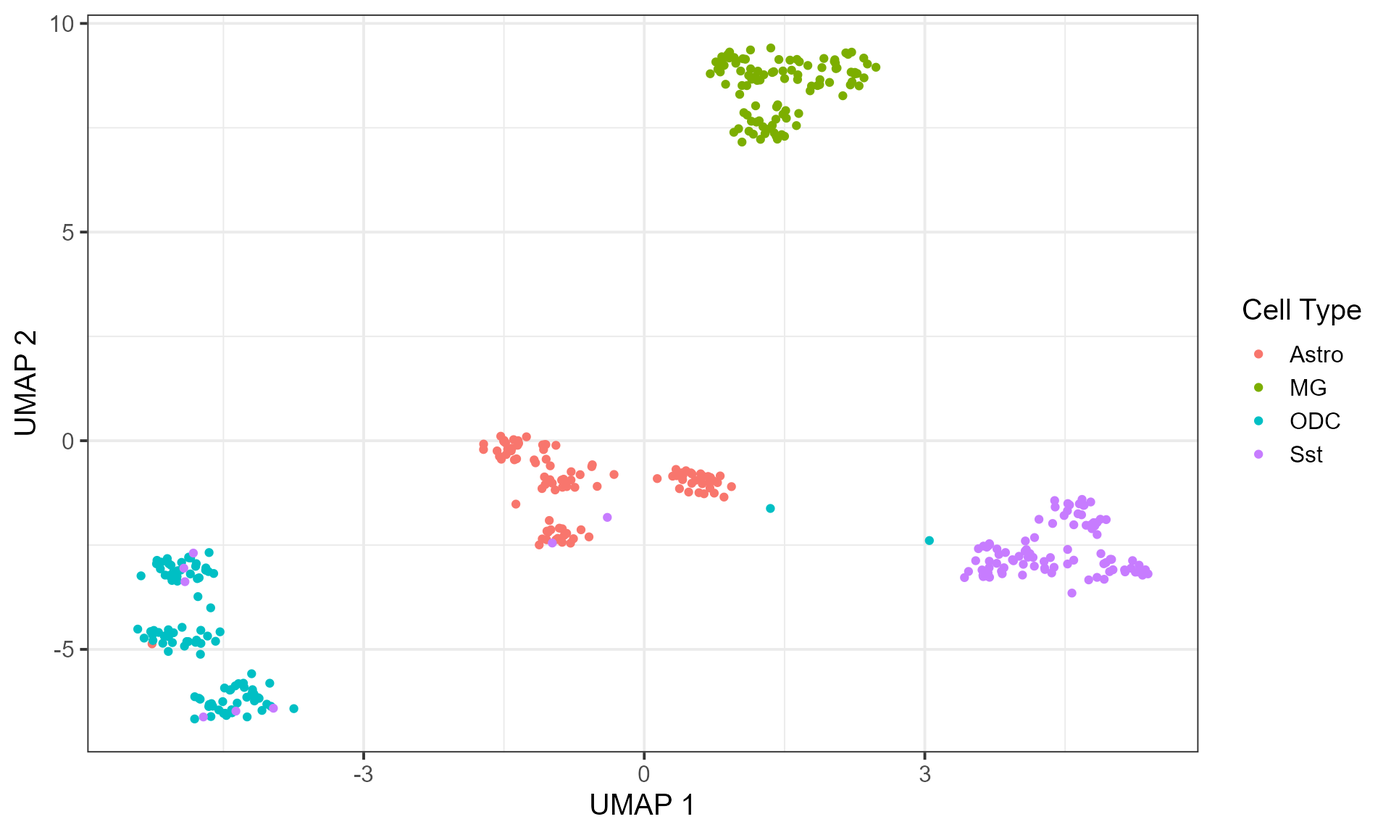
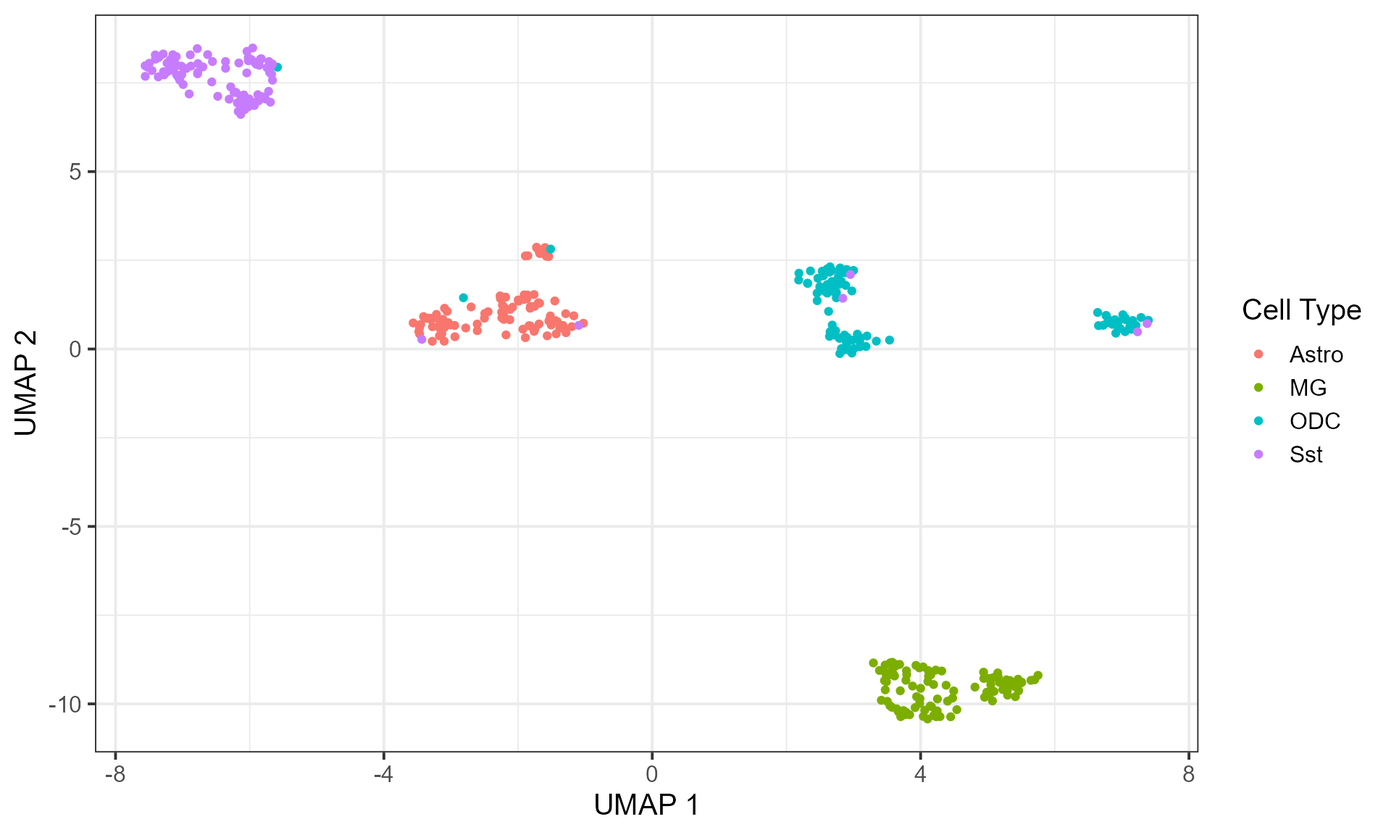
Add files via upload

diff --git a/docs/articles/BandNorm-tutorial.html b/docs/articles/BandNorm-tutorial.html
@@ -111,7 +111,7 @@
 <span class="fu">devtools</span><span class="fu">::</span><span class="fu"><a href="https://devtools.r-lib.org//reference/remote-reexports.html">install_github</a></span><span class="op">(</span><span class="st">"immunogenomics/harmony"</span><span class="op">)</span></code></pre></div>
 <p>BandNorm can be installed from Github:</p>
 <div class="sourceCode" id="cb2"><pre class="downlit sourceCode r">
-<code class="sourceCode R"><span class="fu">devtools</span><span class="fu">::</span><span class="fu"><a href="https://devtools.r-lib.org//reference/remote-reexports.html">install_github</a></span><span class="op">(</span><span class="st">'sshen82/BandNorm'</span>, build_vignettes <span class="op">=</span> <span class="cn">TRUE</span><span class="op">)</span></code></pre></div>
+<code class="sourceCode R"><span class="fu">devtools</span><span class="fu">::</span><span class="fu"><a href="https://devtools.r-lib.org//reference/remote-reexports.html">install_github</a></span><span class="op">(</span><span class="st">'sshen82/BandNorm'</span>, build_vignettes <span class="op">=</span> <span class="cn">FALSE</span><span class="op">)</span></code></pre></div>
 <p>Also, if the user doesn’t have default R path writing permission, it is possible to install the package to the personal library:</p>
 <div class="sourceCode" id="cb3"><pre class="downlit sourceCode r">
 <code class="sourceCode R"><span class="fu">withr</span><span class="fu">::</span><span class="fu"><a href="https://withr.r-lib.org/reference/with_libpaths.html">with_libpaths</a></span><span class="op">(</span><span class="st">"personalLibraryPath"</span>, <span class="fu">devtools</span><span class="fu">::</span><span class="fu"><a href="https://devtools.r-lib.org//reference/remote-reexports.html">install_github</a></span><span class="op">(</span><span class="st">"sshen82/BandNorm"</span><span class="op">)</span><span class="op">)</span></code></pre></div>
@@ -276,107 +276,106 @@ chr1    2000000 chr1    4000000 2</code></pre>
 <span class="co">#&gt; Harmony 8/10</span>
 <span class="co">#&gt; Harmony 9/10</span>
 <span class="co">#&gt; Harmony 10/10</span>
-<span class="co">#&gt; Harmony converged after 10 iterations</span>
 <span class="va">embedding</span><span class="op">[</span><span class="fl">1</span><span class="op">:</span><span class="fl">10</span>, <span class="op">]</span>
-<span class="co">#&gt;                 PC1       PC2        PC3       PC4        PC5         PC6</span>
-<span class="co">#&gt; Astro_1  -18.598110 29.931080 -24.382399 31.116336 -40.118579 -21.7019210</span>
-<span class="co">#&gt; Astro_2  -13.670918 36.083452  -3.312267  6.930737  -9.009162   6.3464861</span>
-<span class="co">#&gt; Astro_3   -2.267128  4.597544   2.897464  3.377565  12.693628 -15.4582799</span>
-<span class="co">#&gt; Astro_4   -7.187638 28.130342 -25.996973  9.657781 -12.472984 -14.0028934</span>
-<span class="co">#&gt; Astro_5    1.628802  8.360079 -23.223005 13.253111 -24.817775 -26.7349927</span>
-<span class="co">#&gt; Astro_6  -20.061033 14.267743 -20.536668  1.234884  -4.438121   7.3750693</span>
-<span class="co">#&gt; Astro_7  -26.900891 23.071582  -8.286288  2.590130  -2.842186   0.2114248</span>
-<span class="co">#&gt; Astro_8   -1.107634 43.001823  -4.118322 -2.020583  -2.913827  14.4833077</span>
-<span class="co">#&gt; Astro_9  -10.996912 12.592310 -26.308491  7.604737 -12.041808   1.4774103</span>
-<span class="co">#&gt; Astro_10 -15.471287  4.827477 -13.715952  5.268014 -25.010593 -10.1452987</span>
-<span class="co">#&gt;                 PC7        PC8        PC9        PC10      PC11       PC12</span>
-<span class="co">#&gt; Astro_1    4.460227 -52.100513 40.2474960  -6.5515215 37.317000 -27.162293</span>
-<span class="co">#&gt; Astro_2   -7.407541  -8.174406  7.0753176  12.1423323 11.933554 -18.978569</span>
-<span class="co">#&gt; Astro_3  -15.356983  20.370090  2.8735243   5.2442983 13.856275  -8.737645</span>
-<span class="co">#&gt; Astro_4   10.894640   4.463943  2.8272319 -13.7644010  2.907668 -17.859815</span>
-<span class="co">#&gt; Astro_5    2.952286  -1.792666 39.5549378  14.3352078 84.920551 -32.838864</span>
-<span class="co">#&gt; Astro_6   -8.898990  -4.130747  1.3905495   0.8574634  8.598461 -44.111732</span>
-<span class="co">#&gt; Astro_7   -1.840967   2.606614 -6.5318506  -9.3327071 -2.039107 -10.357310</span>
-<span class="co">#&gt; Astro_8  -17.574318  11.489550 -0.2931915   0.5600867 24.944239   1.166866</span>
-<span class="co">#&gt; Astro_9   16.646614  34.493576 42.5938448  10.7620046 36.837644 -69.246289</span>
-<span class="co">#&gt; Astro_10  14.756432  -3.866637 32.3606157 -17.1826607 14.062444 -30.227001</span>
-<span class="co">#&gt;                PC13        PC14       PC15        PC16        PC17       PC18</span>
-<span class="co">#&gt; Astro_1   35.475167 -17.8441865  31.093670 -14.5614458  46.8598862 -49.489388</span>
-<span class="co">#&gt; Astro_2    3.732014   0.5568262  -6.336249   0.8622607 -10.2712421 -15.806322</span>
-<span class="co">#&gt; Astro_3   10.502538   9.1290884   5.634217  15.2370060   6.6189743  -3.797738</span>
-<span class="co">#&gt; Astro_4  -11.257326   9.9240360 -15.740841  -2.8328200  -5.5238469   3.630193</span>
-<span class="co">#&gt; Astro_5   30.232807  47.9757347   8.794098  17.5248834   1.3960024  15.270531</span>
-<span class="co">#&gt; Astro_6   26.243766   0.3979917   6.999083 -15.5129058  -0.1274073 -11.690016</span>
-<span class="co">#&gt; Astro_7   13.108140   0.4956446  -7.808197   3.9769618   5.7202350 -20.204446</span>
-<span class="co">#&gt; Astro_8   -4.015004 -43.1880686  -5.824666 -21.9046330  -8.0297394  -3.715574</span>
-<span class="co">#&gt; Astro_9  -28.286495 -25.0738512  35.459946  38.5349062 -11.7070867 -49.076144</span>
-<span class="co">#&gt; Astro_10  16.175552 -23.1416778  -9.513600   1.7511113  18.4756010 -24.237886</span>
-<span class="co">#&gt;                 PC19       PC20        PC21       PC22       PC23       PC24</span>
-<span class="co">#&gt; Astro_1   39.4165478  24.680260 -158.567288  61.766255  17.998826 -43.281226</span>
-<span class="co">#&gt; Astro_2    0.9824895   3.274970  -10.570522  -6.868671 -23.768942  30.192397</span>
-<span class="co">#&gt; Astro_3   28.0204018   6.850144   13.156922  -3.509714  -5.139016   2.895744</span>
-<span class="co">#&gt; Astro_4  -16.0350655   8.270592   27.079930 -20.272976 -22.422512  -7.440697</span>
-<span class="co">#&gt; Astro_5  118.7523443  30.320110   80.174146  12.452443 126.448437 -88.869054</span>
-<span class="co">#&gt; Astro_6  -17.3645302  -1.256421    4.016735  47.114303  -1.410502   6.991088</span>
-<span class="co">#&gt; Astro_7  -14.8838890 -10.230062   15.273690   3.798401 -25.429257   3.683419</span>
-<span class="co">#&gt; Astro_8   -2.7854051 -17.413308  -37.636104 -23.203178 -29.014660  33.578798</span>
-<span class="co">#&gt; Astro_9  -86.8926044 -48.965071    1.486148 -58.063612  48.838538  18.450623</span>
-<span class="co">#&gt; Astro_10  -1.8175842  -5.881182   -1.216682 -22.072054   1.690142  -1.315146</span>
-<span class="co">#&gt;                PC25        PC26       PC27        PC28       PC29       PC30</span>
-<span class="co">#&gt; Astro_1   13.275856  -75.573154  13.570530 -140.979724   5.727072 -33.404555</span>
-<span class="co">#&gt; Astro_2  -13.810191   21.399419   3.177459  -12.656734   2.592716  15.532955</span>
-<span class="co">#&gt; Astro_3    3.443207   24.605286 -33.378943   26.871663  30.746832  12.667440</span>
-<span class="co">#&gt; Astro_4   -3.009014   18.087493  20.170282   31.347615   2.768800  -5.696529</span>
-<span class="co">#&gt; Astro_5   40.311243   65.800138 -57.668802   64.648362 -52.043389  13.761692</span>
-<span class="co">#&gt; Astro_6    5.102028   -2.080999  37.222388   -7.593822  21.344240   1.416606</span>
-<span class="co">#&gt; Astro_7   29.780438   18.722245  22.822204   25.700187  13.581398 -18.215850</span>
-<span class="co">#&gt; Astro_8   11.442772   -3.138051 -31.041168   22.986442  16.198882 -40.829396</span>
-<span class="co">#&gt; Astro_9    8.753905 -172.107216  -7.446399   69.200780  -9.240530  -7.393721</span>
-<span class="co">#&gt; Astro_10 -42.034477   -3.314376  23.923047    5.525915  10.524619  -1.069653</span>
-<span class="co">#&gt;                PC31       PC32        PC33       PC34      PC35       PC36</span>
-<span class="co">#&gt; Astro_1   13.580232 -69.607471  16.6579039 -26.495668  65.49716 -78.252944</span>
-<span class="co">#&gt; Astro_2   -6.525119   3.483396   8.1538417  19.066489 -10.20887   7.762151</span>
-<span class="co">#&gt; Astro_3    5.810426  -9.658983 -76.1098192  -2.781780  -4.87731  -3.005881</span>
-<span class="co">#&gt; Astro_4  -28.487199  23.962197  -5.9613303  17.252775  15.17926  18.719909</span>
-<span class="co">#&gt; Astro_5  -11.679693  -4.382173  -4.0230368 -47.109811  67.49965  25.917323</span>
-<span class="co">#&gt; Astro_6   -4.221079  41.352804  14.1815273  -7.919299  13.86098   3.646989</span>
-<span class="co">#&gt; Astro_7  -38.228441  10.121056 -31.3917566   5.180027 -64.89057   1.322206</span>
-<span class="co">#&gt; Astro_8   12.758204  14.914500  44.5473871 -25.783057  54.17184  33.915650</span>
-<span class="co">#&gt; Astro_9   62.347971 -21.511858  -0.2814753 -13.167109 -60.75524 -16.874267</span>
-<span class="co">#&gt; Astro_10 -40.601569  39.919305 -28.9582106  20.420831   5.33959   7.718047</span>
+<span class="co">#&gt;                  PC1       PC2        PC3       PC4        PC5        PC6</span>
+<span class="co">#&gt; Astro_1  -19.6818675 33.187558 -24.291312 34.305986 -37.328502 -17.326726</span>
+<span class="co">#&gt; Astro_2   -6.9413515 35.764457  -0.881772 13.842615  -8.433046  11.788085</span>
+<span class="co">#&gt; Astro_3   -0.1522657 11.731713  -1.567521  2.776508  11.146740 -12.273138</span>
+<span class="co">#&gt; Astro_4  -11.4269339 24.421817 -24.699096 12.630375 -11.461560 -19.269284</span>
+<span class="co">#&gt; Astro_5   10.9686354 14.232116 -23.579580 10.386387 -23.045573 -14.536422</span>
+<span class="co">#&gt; Astro_6  -23.1276963 13.196159 -19.509804 -0.738982  -3.575348  11.037074</span>
+<span class="co">#&gt; Astro_7  -24.3950214 21.607768 -13.830574  8.450608  -2.419186  -2.942963</span>
+<span class="co">#&gt; Astro_8  -12.8734154 36.446388  -5.606941  7.560606  -1.447784   4.944132</span>
+<span class="co">#&gt; Astro_9  -12.6697465  9.948373 -22.331075 17.613220 -10.338764  -4.950630</span>
+<span class="co">#&gt; Astro_10 -18.4595052  3.857227 -12.850553  3.136981 -24.144070  -6.476602</span>
+<span class="co">#&gt;                 PC7        PC8        PC9       PC10       PC11       PC12</span>
+<span class="co">#&gt; Astro_1   -3.174965 -45.142899 38.1858949  -1.310533 17.4545481 -23.973717</span>
+<span class="co">#&gt; Astro_2   -3.114486  -1.966325 12.0148420  16.080430 19.4947920 -30.928776</span>
+<span class="co">#&gt; Astro_3  -20.962141  26.375546  1.0220099  10.104739 -4.4285838  -6.151360</span>
+<span class="co">#&gt; Astro_4    9.714641   3.194137  4.7535728 -10.556344  2.6782999 -15.394851</span>
+<span class="co">#&gt; Astro_5    2.106940  12.486421 41.3317700  22.283793 81.0174869 -42.992193</span>
+<span class="co">#&gt; Astro_6  -11.478945  -3.656145  0.9432855   4.087796  8.9836023 -45.498311</span>
+<span class="co">#&gt; Astro_7    1.283122   2.550774 -3.0860071  -9.269331  0.8813164 -16.760036</span>
+<span class="co">#&gt; Astro_8  -21.742754   7.500742  0.1119756   1.091117 18.5508798   9.283238</span>
+<span class="co">#&gt; Astro_9   17.701556  29.060677 50.0758019  12.301419 41.6392893 -68.062144</span>
+<span class="co">#&gt; Astro_10  12.153053  -3.311661 31.9030157 -13.937689 14.3380999 -31.615839</span>
+<span class="co">#&gt;                 PC13       PC14       PC15        PC16        PC17       PC18</span>
+<span class="co">#&gt; Astro_1   41.9913391 -40.315977  12.005285 -34.2698820  62.3687102 -48.712968</span>
+<span class="co">#&gt; Astro_2    0.4929860  -4.876995 -15.080028   1.4619842 -15.7442708 -14.193378</span>
+<span class="co">#&gt; Astro_3   17.8029350 -13.042382 -13.040820  -2.6092264  20.2778343  -2.682610</span>
+<span class="co">#&gt; Astro_4   -6.2407974   7.291412 -16.712736  -3.0916003  -0.1070502   1.580848</span>
+<span class="co">#&gt; Astro_5   25.7541686  32.271291 -10.616557   9.3623690   0.6137995  17.118863</span>
+<span class="co">#&gt; Astro_6   27.7983094  -0.392700   7.627107 -16.3108803   0.9139409 -12.429116</span>
+<span class="co">#&gt; Astro_7   17.7175670  -8.857574 -13.545722  -0.1547511  10.1359683 -19.565539</span>
+<span class="co">#&gt; Astro_8    0.5981962 -28.107482  -4.788695 -20.5537922  10.3528223  -1.354872</span>
+<span class="co">#&gt; Astro_9  -22.1027050 -10.760005  35.777556  47.2319585  -5.2599078 -45.848556</span>
+<span class="co">#&gt; Astro_10  17.7511224 -24.062487  -9.018490   0.8658103  19.6204282 -24.955344</span>
+<span class="co">#&gt;                PC19        PC20        PC21       PC22        PC23        PC24</span>
+<span class="co">#&gt; Astro_1   23.625974  17.6605511 -163.783008  59.797498   0.7301939  -34.822957</span>
+<span class="co">#&gt; Astro_2   -4.814722  -5.9885370    5.767593 -16.329984 -10.5933142   18.147501</span>
+<span class="co">#&gt; Astro_3   16.313200   4.1354337    2.209153  -2.182894 -20.1453510   10.251953</span>
+<span class="co">#&gt; Astro_4   -2.911575  18.6703911    9.336044 -12.284077 -14.0280746  -16.445838</span>
+<span class="co">#&gt; Astro_5   95.797062   6.4276278  113.142337  -7.337412 131.7953384 -102.850942</span>
+<span class="co">#&gt; Astro_6  -18.198631  -4.9939682    2.629506  45.355615  -2.0375692   10.791805</span>
+<span class="co">#&gt; Astro_7   -9.348555  -0.6934357   -8.678324  11.438277 -25.6017120    7.771993</span>
+<span class="co">#&gt; Astro_8   20.975432  -2.3895087  -47.449594 -14.347009 -28.0862617   52.385958</span>
+<span class="co">#&gt; Astro_9  -61.052777 -37.4811980   14.994089 -47.847431  68.6077214    5.665649</span>
+<span class="co">#&gt; Astro_10  -2.741766  -9.6476862   -2.608466 -23.840050   0.9570935    2.503927</span>
+<span class="co">#&gt;                PC25        PC26       PC27        PC28       PC29         PC30</span>
+<span class="co">#&gt; Astro_1   11.215157  -77.584368  29.681514 -143.306304  16.857011 -38.00863995</span>
+<span class="co">#&gt; Astro_2   -5.590577    3.084717  -3.372871    1.533399   1.974656  22.00529798</span>
+<span class="co">#&gt; Astro_3    3.483674   19.009360 -20.093098   21.033444  43.453755   6.90860784</span>
+<span class="co">#&gt; Astro_4    2.280373    5.383140  19.351155   18.369493   1.434371  -9.17083647</span>
+<span class="co">#&gt; Astro_5   45.429895   53.100323 -52.534766   91.301842 -54.592389  15.92679637</span>
+<span class="co">#&gt; Astro_6    3.635530   -3.698877  30.294998  -10.915871  21.423324   2.44838313</span>
+<span class="co">#&gt; Astro_7   37.695662   -4.995751  17.011352   12.665976  29.152033 -14.76670572</span>
+<span class="co">#&gt; Astro_8    5.563171   36.607953 -34.494820   12.071759  10.908332 -28.21795362</span>
+<span class="co">#&gt; Astro_9   10.563340 -150.510090  -9.915328   69.965334 -22.254300  -0.08238563</span>
+<span class="co">#&gt; Astro_10 -43.488906   -4.933268  17.113636    2.237104  10.700541  -0.06850146</span>
+<span class="co">#&gt;                 PC31       PC32        PC33       PC34       PC35       PC36</span>
+<span class="co">#&gt; Astro_1   11.8738139 -63.128476  16.6029856 -11.865479  57.000630 -71.917909</span>
+<span class="co">#&gt; Astro_2  -17.7354614   8.042276  10.7771190   9.709260  -9.305294   2.812745</span>
+<span class="co">#&gt; Astro_3    3.4370045  -6.392208 -77.1591353   8.385250  -9.672752   2.330486</span>
+<span class="co">#&gt; Astro_4  -14.8573259   3.390100  -9.2146524   5.995918  14.522816   7.328910</span>
+<span class="co">#&gt; Astro_5  -21.2889828   8.966508   0.4062215 -39.595214  52.704800  25.979615</span>
+<span class="co">#&gt; Astro_6   -0.3523226  40.594552  14.9858348  -8.923712  13.643289   6.666905</span>
+<span class="co">#&gt; Astro_7  -47.6772669   4.389424 -32.7900052 -12.873335 -50.048431  -4.285490</span>
+<span class="co">#&gt; Astro_8    4.9481780   5.714122  40.3087348 -15.165899  63.522566  40.643218</span>
+<span class="co">#&gt; Astro_9   57.3574100 -27.110912  -7.4264464 -13.503395 -62.479762 -15.149021</span>
+<span class="co">#&gt; Astro_10 -36.8266178  39.230523 -28.1701091  19.497967   5.065160  10.774765</span>
 <span class="co">#&gt;                PC37       PC38       PC39       PC40       PC41       PC42</span>
-<span class="co">#&gt; Astro_1   19.234383  -19.72138  48.978159  -8.438157  -2.704423   8.304591</span>
-<span class="co">#&gt; Astro_2    7.249256   20.57278  11.611439   2.210857 -14.957570  22.795593</span>
-<span class="co">#&gt; Astro_3  -12.026184   53.14093  -8.680514 -26.336300  10.112864   7.037904</span>
-<span class="co">#&gt; Astro_4  -23.695526  -34.09582  34.570352   4.923201 -47.910495 -15.061011</span>
-<span class="co">#&gt; Astro_5   -6.889219  -38.01094  25.105337 -41.485029  71.087053   6.614945</span>
-<span class="co">#&gt; Astro_6  -15.249171   34.83729  49.644906  34.994742  -3.293604  26.009546</span>
-<span class="co">#&gt; Astro_7  -15.893129   34.73427 -42.180391  10.182665  30.075029 -38.179932</span>
-<span class="co">#&gt; Astro_8   35.996855 -111.34210  14.768940 -12.423909   2.819454 -18.334980</span>
-<span class="co">#&gt; Astro_9    8.840987   66.99017 -67.030869  27.755628 -14.035714  17.645652</span>
-<span class="co">#&gt; Astro_10  12.966523  -27.58261 -44.618766 -69.782635 -26.383727  17.267455</span>
-<span class="co">#&gt;                PC43       PC44        PC45       PC46       PC47       PC48</span>
-<span class="co">#&gt; Astro_1   -4.145073  -8.444849  21.9471602   6.047150 -27.199368   5.215858</span>
-<span class="co">#&gt; Astro_2   36.674543   1.459047  -7.8698662 -26.422441  -3.071296  -5.414492</span>
-<span class="co">#&gt; Astro_3    1.882710  42.746501  24.2629300  12.988262  50.515300  67.692793</span>
-<span class="co">#&gt; Astro_4   28.768820   6.959527   1.8817834  55.178998  34.769948 -13.564325</span>
-<span class="co">#&gt; Astro_5  -18.638189   5.949651  -7.4544784  -8.575980 -44.524834   4.749983</span>
-<span class="co">#&gt; Astro_6  -30.365114   9.156468 -47.9319598   7.531936 -20.798874  12.920457</span>
-<span class="co">#&gt; Astro_7   -5.100947 -10.305991   0.5733604 -72.181916 -10.194963   5.410968</span>
-<span class="co">#&gt; Astro_8   46.220330  30.644549 -53.6890401  25.336719  28.601953 -37.886459</span>
-<span class="co">#&gt; Astro_9  -19.931964 -12.170762  36.1928984  28.388143  39.232422 -48.170223</span>
-<span class="co">#&gt; Astro_10  35.212835  17.806082  18.0071919  -4.895024 -27.807602 -20.226128</span>
-<span class="co">#&gt;                PC49        PC50</span>
-<span class="co">#&gt; Astro_1   31.145673 -28.4404935</span>
-<span class="co">#&gt; Astro_2  -21.514625  20.2684588</span>
-<span class="co">#&gt; Astro_3  -14.452685  -5.0696845</span>
-<span class="co">#&gt; Astro_4   27.367058  29.6196348</span>
-<span class="co">#&gt; Astro_5   -6.657970   0.3094712</span>
-<span class="co">#&gt; Astro_6   -2.914457  -8.7122316</span>
-<span class="co">#&gt; Astro_7  -11.781670  32.2319840</span>
-<span class="co">#&gt; Astro_8   22.288657  26.9777669</span>
-<span class="co">#&gt; Astro_9   48.155778 -13.0457456</span>
-<span class="co">#&gt; Astro_10 -52.804567 -80.1829432</span></code></pre></div>
+<span class="co">#&gt; Astro_1   14.855016  -10.11556  44.987885  -1.603123 -10.913944   3.532696</span>
+<span class="co">#&gt; Astro_2    8.209055   17.99842  11.958522  -1.160660 -14.047774  27.748590</span>
+<span class="co">#&gt; Astro_3  -16.826524   61.64229  -9.844178 -21.411507   2.488139   1.793023</span>
+<span class="co">#&gt; Astro_4  -26.533055  -27.99969  41.022934   2.619541 -35.245890 -17.649277</span>
+<span class="co">#&gt; Astro_5   -7.481602  -28.87420  13.593954 -35.437497  68.248616  10.552585</span>
+<span class="co">#&gt; Astro_6  -14.343387   38.67769  45.255607  37.858962   2.488781  30.377203</span>
+<span class="co">#&gt; Astro_7  -17.255262   24.47769 -27.132180   2.208254  28.914535 -40.765960</span>
+<span class="co">#&gt; Astro_8   31.977432 -117.06676  17.100593 -18.650597  -1.376020 -25.872966</span>
+<span class="co">#&gt; Astro_9    5.844894   75.98707 -67.906012  22.940683  -9.384698  24.491932</span>
+<span class="co">#&gt; Astro_10  13.834084  -23.70211 -49.007339 -66.883225 -20.692720  21.584268</span>
+<span class="co">#&gt;                PC43       PC44       PC45       PC46       PC47       PC48</span>
+<span class="co">#&gt; Astro_1   -3.423037 -11.714530  32.019640  11.102977 -15.999976   9.615514</span>
+<span class="co">#&gt; Astro_2   38.422306  -3.887788  -8.935167 -25.460414  -9.317209 -16.214077</span>
+<span class="co">#&gt; Astro_3    2.075867  37.528452  36.880078  16.896689  60.666430  75.294983</span>
+<span class="co">#&gt; Astro_4   29.313772  -2.721654  15.410464  48.510178  51.695060  -2.683999</span>
+<span class="co">#&gt; Astro_5  -15.124398   5.037238 -13.448577  -6.741581 -40.602004 -13.539482</span>
+<span class="co">#&gt; Astro_6  -35.855526   6.740143 -51.189316   2.473525 -26.301169  12.621379</span>
+<span class="co">#&gt; Astro_7   -4.242339 -23.805673  17.121075 -70.197528 -13.171656  15.313285</span>
+<span class="co">#&gt; Astro_8   44.946541  26.593256 -51.743957  29.035974  22.815002 -29.596931</span>
+<span class="co">#&gt; Astro_9  -27.879987 -14.152819  37.484664  23.676329  22.011163 -45.019834</span>
+<span class="co">#&gt; Astro_10  29.750325  15.361822  14.822085  -9.924490 -33.250847 -20.503981</span>
+<span class="co">#&gt;                 PC49       PC50</span>
+<span class="co">#&gt; Astro_1   39.7779297 -20.706846</span>
+<span class="co">#&gt; Astro_2  -19.5857938  17.066738</span>
+<span class="co">#&gt; Astro_3   -3.7441160   2.527529</span>
+<span class="co">#&gt; Astro_4   40.2784077  42.525293</span>
+<span class="co">#&gt; Astro_5   -5.6143615   2.438562</span>
+<span class="co">#&gt; Astro_6  -12.0540448 -11.198558</span>
+<span class="co">#&gt; Astro_7    0.6882549  32.307024</span>
+<span class="co">#&gt; Astro_8   10.0850350  30.966134</span>
+<span class="co">#&gt; Astro_9   40.0871823 -13.207744</span>
+<span class="co">#&gt; Astro_10 -61.8649769 -82.609289</span></code></pre></div>
 <p>Finally, using the embedding, you can use UMAP or tSNE to get a projection of all the cells on the 2D plane. If you have the cell-type information or batch information, it is possible to color them on the plot.</p>
 <div class="sourceCode" id="cb10"><pre class="downlit sourceCode r">
 <code class="sourceCode R"><span class="fu"><a href="../reference/plot_embedding.html">plot_embedding</a></span><span class="op">(</span><span class="va">embedding</span>, <span class="st">"UMAP"</span>, cell_info <span class="op">=</span> <span class="va">cell_type</span>, label <span class="op">=</span> <span class="st">"Cell Type"</span><span class="op">)</span></code></pre></div>

diff --git a/docs/index.html b/docs/index.html
@@ -83,17 +83,25 @@
 
       </header><div class="row">
   <div class="contents col-md-9">
-<div id="bandnorm" class="section level1">
+<div id="bandnorm-and-scgad" class="section level1">
 <div class="page-header"><h1 class="hasAnchor">
-<a href="#bandnorm" class="anchor"></a>BandNorm</h1></div>
+<a href="#bandnorm-and-scgad" class="anchor"></a>BandNorm and scGAD</h1></div>
 <p>Ye Zheng*, Siqi Shen* and Sündüz Keleş. Normalization and De-noising of single-cell Hi-C Data with BandNorm and 3DVI. bioRxiv (2021). * contribute equally.</p>
+<p>Siqi Shen, Ye Zheng* and Sündüz Keleş<em>, scGAD: single-cell gene associating domain scores for exploratory analysis of scHi-C data. bioRxiv (2021). </em> corresponding authors.</p>
 <div id="what-is-bandnorm" class="section level2">
 <h2 class="hasAnchor">
 <a href="#what-is-bandnorm" class="anchor"></a>What is BandNorm?</h2>
 <p>The advent of single-cell sequencing technologies in profiling 3D genome organization led to development of single-cell high-throughput chromatin conformation (scHi-C) assays. Data from these assays enhance our ability to study dynamic chromatin architecture and the impact of spatial genome interactions on cell regulation at an unprecedented resolution. At the individual cell resolution, heterogeneity driven by the stochastic nature of chromatin fiber, various nuclear processes, and unwanted variation due to sequencing depths and batch effects poses major analytical challenges for inferring single cell-level 3D genome organizations.</p>
 <p>To explicitly capture chromatin conformation features and distinguish cells based on their 3D genome organizations, we develop a simple and fast band normalization approach, <code>BandNorm</code>, as well as a deep generative modeling framework, <a href="https://github.com/yezhengSTAT/3DVI">3DVI</a>, for more structured modeling of scHi-C data. <code>BandNorm</code> first removes genomic distance bias within a cell, and sequencing depth normalizes between cells. Consequently, <code>BandNorm</code> adds back a common band-dependent contact decay profile for the contact matrices across cells. The former step is achieved by dividing the interaction frequencies of each band within a cell with the cell’s band mean. The latter step is implemented by multiplying each scaled band by the average band mean across cells.</p>
 <p><img src="./figures/bandnorm_intro.png" alt="BandNorm" width="700px"></p>
-<p>There are four functions, <code>download_schic</code>, <code>bandnorm</code>, <code>create_embedding</code>, and <code>plot_embedding</code>. <code>download_schic</code> downloads one of the currently available single-cell Hi-C data cleaned by us, <code>bandnorm</code> takes in sparse matrices and normalize them using BandNorm method, <code>create_embedding</code> summarizes the data into a PCA embedding in preparation for clustering and lower dimension embedding, and <code>plot_embedding</code> calculates UMAP or tSNE embedding from the PCA obtained from <code>create_embedding</code>, and plots the resulting embedding. (See vignette (<code>browseVignettes("BandNorm"))</code> or visit <a href="https://sshen82.github.io/BandNorm">BandNorm website</a> for more detail.)</p>
+</div>
+<div id="what-is-scgad" class="section level2">
+<h2 class="hasAnchor">
+<a href="#what-is-scgad" class="anchor"></a>What is scGAD?</h2>
+<p>Recent advancements in single-cell technologies enabled the profiling of 3D genome structures in a single-cell fashion. Quantitative tools are needed to fully leverage the unprecedented resolution of single-cell high-throughput chromatin conformation (scHi-C) data and integrate it with other single-cell data modalities. We present single-cell gene associating domain (scGAD) scores as a dimension reduction and exploratory analysis tool for scHi-C data. scGAD enables summarization at the gene level while accounting for inherent gene-level genomic biases. Low-dimensional projections with scGAD capture clustering of cells based on their 3D structures. scGAD enables identifying genes with significant chromatin interactions within and between cell types. We further show that scGAD facilitates the integration of scHi-C data with other single-cell data modalities by enabling its projection onto reference low-dimensional embeddings such as scRNA-seq.</p>
+<p><img src="./figures/Fig1A.png" alt="BandNorm" width="700px"></p>
+<p>There are seven functions, <code>download_schic</code>, <code>bandnorm</code>, <code>bandnorm_juicer</code>, <code>create_embedding</code>, and <code>plot_embedding</code>, <code>scGAD</code> and <code>runProjection</code>. <code>download_schic</code> downloads one of the currently available single-cell Hi-C data cleaned by us, <code>bandnorm</code> takes in sparse matrices and normalize them using BandNorm method, and <code>bandnorm_juicer</code> allows using .hic data to perform BandNorm, <code>create_embedding</code> summarizes the data into a PCA embedding in preparation for clustering and lower dimension embedding, <code>plot_embedding</code> calculates UMAP or tSNE embedding from the PCA obtained from <code>create_embedding</code>, and plots the resulting embedding. <code>scGAD</code> obtains scGAD score from single-cell Hi-C data, and <code>runProjection</code> projects scGAD score on other single-cell modalities.</p>
+<p>(See vignette (<code>browseVignettes("BandNorm"))</code> or visit <a href="https://sshen82.github.io/BandNorm">BandNorm website</a> for more detail.)</p>
 </div>
 <div id="installation" class="section level2">
 <h2 class="hasAnchor">
@@ -106,8 +114,8 @@ if (!requireNamespace("devtools", quietly=TRUE))
 
 library(devtools)
 install_github("immunogenomics/harmony")</a></code></pre>
-<p><code>BandNorm</code> can be installed from Github:</p>
-<pre><code><a href="https://devtools.r-lib.org//reference/remote-reexports.html">devtools::install_github('sshen82/BandNorm', build_vignettes = TRUE)
+<p><code>BandNorm</code> can be installed from Github (User can change build_vignettes to TRUE to locally compile the vignettes. Note that the vignettes are also available online at BandNorm tutorial and scGAD tutorial (<a href="https://sshen82.github.io/BandNorm/index.html">BandNorm Method for single-cell Hi-C • BandNorm (sshen82.github.io)</a>):</p>
+<pre><code><a href="https://devtools.r-lib.org//reference/remote-reexports.html">devtools::install_github('sshen82/BandNorm', build_vignettes = FALSE)
 library(BandNorm)</a></code></pre>
 <p>Also, if the user doesn’t have default R path writing permission, it is possible to install the package to the personal library:</p>
 <pre><code><a href="https://withr.r-lib.org/reference/with_libpaths.html">withr::with_libpaths("personalLibraryPath", devtools::install_github("sshen82/BandNorm"))</a></code></pre>

diff --git a/docs/articles/scGAD_tutorial.html b/docs/articles/scGAD_tutorial.html
@@ -298,20 +298,20 @@ Rgs20   -0.14     -1.25     0.16   ... ...</code></pre>
 <span class="co">#&gt; Warning: The default method for RunUMAP has changed from calling Python UMAP via reticulate to the R-native UWOT using the cosine metric</span>
 <span class="co">#&gt; To use Python UMAP via reticulate, set umap.method to 'umap-learn' and metric to 'correlation'</span>
 <span class="co">#&gt; This message will be shown once per session</span>
-<span class="co">#&gt; 18:49:45 UMAP embedding parameters a = 0.9922 b = 1.112</span>
-<span class="co">#&gt; 18:49:45 Read 1426 rows and found 5 numeric columns</span>
-<span class="co">#&gt; 18:49:45 Using Annoy for neighbor search, n_neighbors = 30</span>
-<span class="co">#&gt; 18:49:45 Building Annoy index with metric = cosine, n_trees = 50</span>
+<span class="co">#&gt; 20:30:15 UMAP embedding parameters a = 0.9922 b = 1.112</span>
+<span class="co">#&gt; 20:30:15 Read 1426 rows and found 5 numeric columns</span>
+<span class="co">#&gt; 20:30:15 Using Annoy for neighbor search, n_neighbors = 30</span>
+<span class="co">#&gt; 20:30:15 Building Annoy index with metric = cosine, n_trees = 50</span>
 <span class="co">#&gt; 0%   10   20   30   40   50   60   70   80   90   100%</span>
 <span class="co">#&gt; [----|----|----|----|----|----|----|----|----|----|</span>
 <span class="co">#&gt; **************************************************|</span>
-<span class="co">#&gt; 18:49:45 Writing NN index file to temp file C:\Users\solei\AppData\Local\Temp\Rtmp6VqvxF\file25044ea3dd7</span>
-<span class="co">#&gt; 18:49:45 Searching Annoy index using 1 thread, search_k = 3000</span>
-<span class="co">#&gt; 18:49:45 Annoy recall = 100%</span>
-<span class="co">#&gt; 18:49:45 Commencing smooth kNN distance calibration using 1 thread</span>
-<span class="co">#&gt; 18:49:46 Initializing from normalized Laplacian + noise</span>
-<span class="co">#&gt; 18:49:46 Commencing optimization for 500 epochs, with 55332 positive edges</span>
-<span class="co">#&gt; 18:49:49 Optimization finished</span>
+<span class="co">#&gt; 20:30:16 Writing NN index file to temp file C:\Users\solei\AppData\Local\Temp\RtmpOIqCzl\file19b46b6f49a8</span>
+<span class="co">#&gt; 20:30:16 Searching Annoy index using 1 thread, search_k = 3000</span>
+<span class="co">#&gt; 20:30:16 Annoy recall = 100%</span>
+<span class="co">#&gt; 20:30:16 Commencing smooth kNN distance calibration using 1 thread</span>
+<span class="co">#&gt; 20:30:17 Initializing from normalized Laplacian + noise</span>
+<span class="co">#&gt; 20:30:17 Commencing optimization for 500 epochs, with 55332 positive edges</span>
+<span class="co">#&gt; 20:30:20 Optimization finished</span>
 
 <span class="va">p_celltype</span> <span class="op">=</span> <span class="fu"><a href="https://satijalab.org/seurat/reference/DimPlot.html">DimPlot</a></span><span class="op">(</span><span class="va">combinedAssay</span>, reduction <span class="op">=</span> <span class="st">"umap"</span>, label <span class="op">=</span> <span class="cn">TRUE</span>, repel <span class="op">=</span> <span class="cn">TRUE</span>, 
                     pt.size <span class="op">=</span> <span class="fl">1.3</span>, shape.by <span class="op">=</span> <span class="st">"method"</span>, label.size <span class="op">=</span> <span class="fl">6</span><span class="op">)</span> <span class="op">+</span>

diff --git a/docs/reference/download_schic.html b/docs/reference/download_schic.html
@@ -162,7 +162,7 @@
 
 
     <h2 class="hasAnchor" id="examples"><a class="anchor" href="#examples"></a>Examples</h2>
-    <pre class="examples"><div class='input'><span class='fu'>download_schic</span><span class='op'>(</span><span class='st'>"Li2019"</span>, cell_path <span class='op'>=</span> <span class='fu'><a href='https://rdrr.io/r/base/getwd.html'>getwd</a></span><span class='op'>(</span><span class='op'>)</span><span class='op'>)</span>
+    <pre class="examples"><div class='input'><span class='co'># download_schic("Li2019", cell_path = getwd())</span>
 </div></pre>
   </div>
   <div class="col-md-3 hidden-xs hidden-sm" id="pkgdown-sidebar">

diff --git a/README.md b/README.md
@@ -1,6 +1,8 @@
-# BandNorm
+# BandNorm and scGAD
 
 Ye Zheng\*, Siqi Shen\* and Sündüz Keleş. Normalization and De-noising of single-cell Hi-C Data with BandNorm and 3DVI. bioRxiv (2021). * contribute equally.
+
+Siqi Shen, Ye Zheng* and Sündüz Keleş*, scGAD: single-cell gene associating domain scores for exploratory analysis of scHi-C data. bioRxiv (2021). * corresponding authors.
 
 ## What is BandNorm?
 
@@ -10,11 +12,15 @@ To explicitly capture chromatin conformation features and distinguish cells base
 
 <img src="./figures/bandnorm_intro.png" alt="BandNorm" width="700px">
 
-There are four functions, `download_schic`, `bandnorm`, `create_embedding`, and `plot_embedding`.
-`download_schic` downloads one of the currently available single-cell Hi-C data cleaned by us,
-`bandnorm` takes in sparse matrices and normalize them using BandNorm method, 
-`create_embedding` summarizes the data into a PCA embedding in preparation for clustering and lower dimension embedding,
-and `plot_embedding` calculates UMAP or tSNE embedding from the PCA obtained from `create_embedding`, and plots the resulting embedding.
+## What is scGAD?
+
+Recent advancements in single-cell technologies enabled the profiling of 3D genome structures in a single-cell fashion. Quantitative tools are needed to fully leverage the unprecedented resolution of single-cell high-throughput chromatin conformation (scHi-C) data and integrate it with other single-cell data modalities. We present single-cell gene associating domain (scGAD) scores as a dimension reduction and exploratory analysis tool for scHi-C data. scGAD enables summarization at the gene level while accounting for inherent gene-level genomic biases. Low-dimensional projections with scGAD capture clustering of cells based on their 3D structures. scGAD enables identifying genes with significant chromatin interactions within and between cell types. We further show that scGAD facilitates the integration of scHi-C data with other single-cell data modalities by enabling its projection onto reference low-dimensional embeddings such as scRNA-seq. 
+
+<img src="./figures/Fig1A.png" alt="BandNorm" width="700px">
+
+There are seven functions, `download_schic`, `bandnorm`, `bandnorm_juicer`, `create_embedding`, and `plot_embedding`, `scGAD` and `runProjection`.
+`download_schic` downloads one of the currently available single-cell Hi-C data cleaned by us, `bandnorm` takes in sparse matrices and normalize them using BandNorm method, and `bandnorm_juicer` allows using .hic data to perform BandNorm, `create_embedding` summarizes the data into a PCA embedding in preparation for clustering and lower dimension embedding, `plot_embedding` calculates UMAP or tSNE embedding from the PCA obtained from `create_embedding`, and plots the resulting embedding. `scGAD` obtains scGAD score from single-cell Hi-C data, and `runProjection` projects scGAD score on other single-cell modalities.
+
 (See vignette (`browseVignettes("BandNorm"))` or visit [BandNorm website](https://sshen82.github.io/BandNorm) for more detail.)
 
 ## Installation
@@ -31,10 +37,10 @@ library(devtools)
 install_github("immunogenomics/harmony")
 ```
 
-`BandNorm` can be installed from Github:
+`BandNorm` can be installed from Github (User can change build_vignettes to TRUE to locally compile the vignettes. Note that the vignettes are also available online at BandNorm tutorial and scGAD tutorial ([BandNorm Method for single-cell Hi-C • BandNorm (sshen82.github.io)](https://sshen82.github.io/BandNorm/index.html)):
 
 ```
-devtools::install_github('sshen82/BandNorm', build_vignettes = TRUE)
+devtools::install_github('sshen82/BandNorm', build_vignettes = FALSE)
 library(BandNorm)
 ```
 
